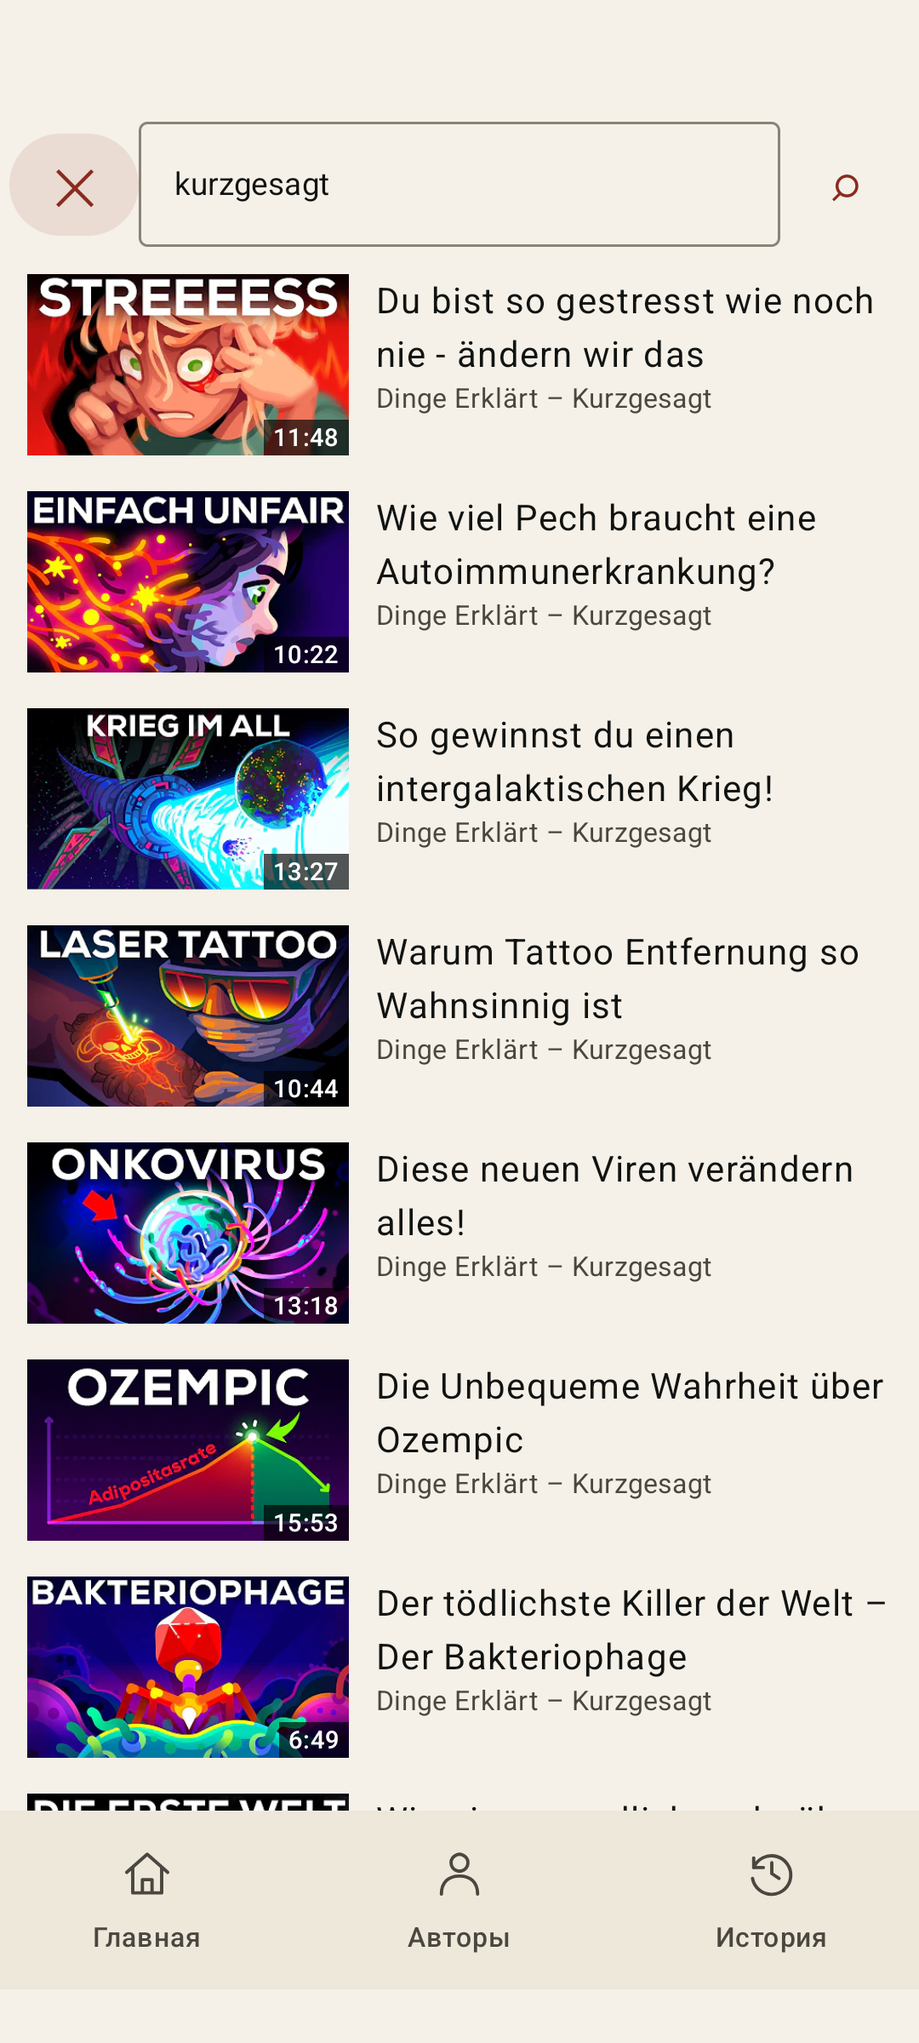
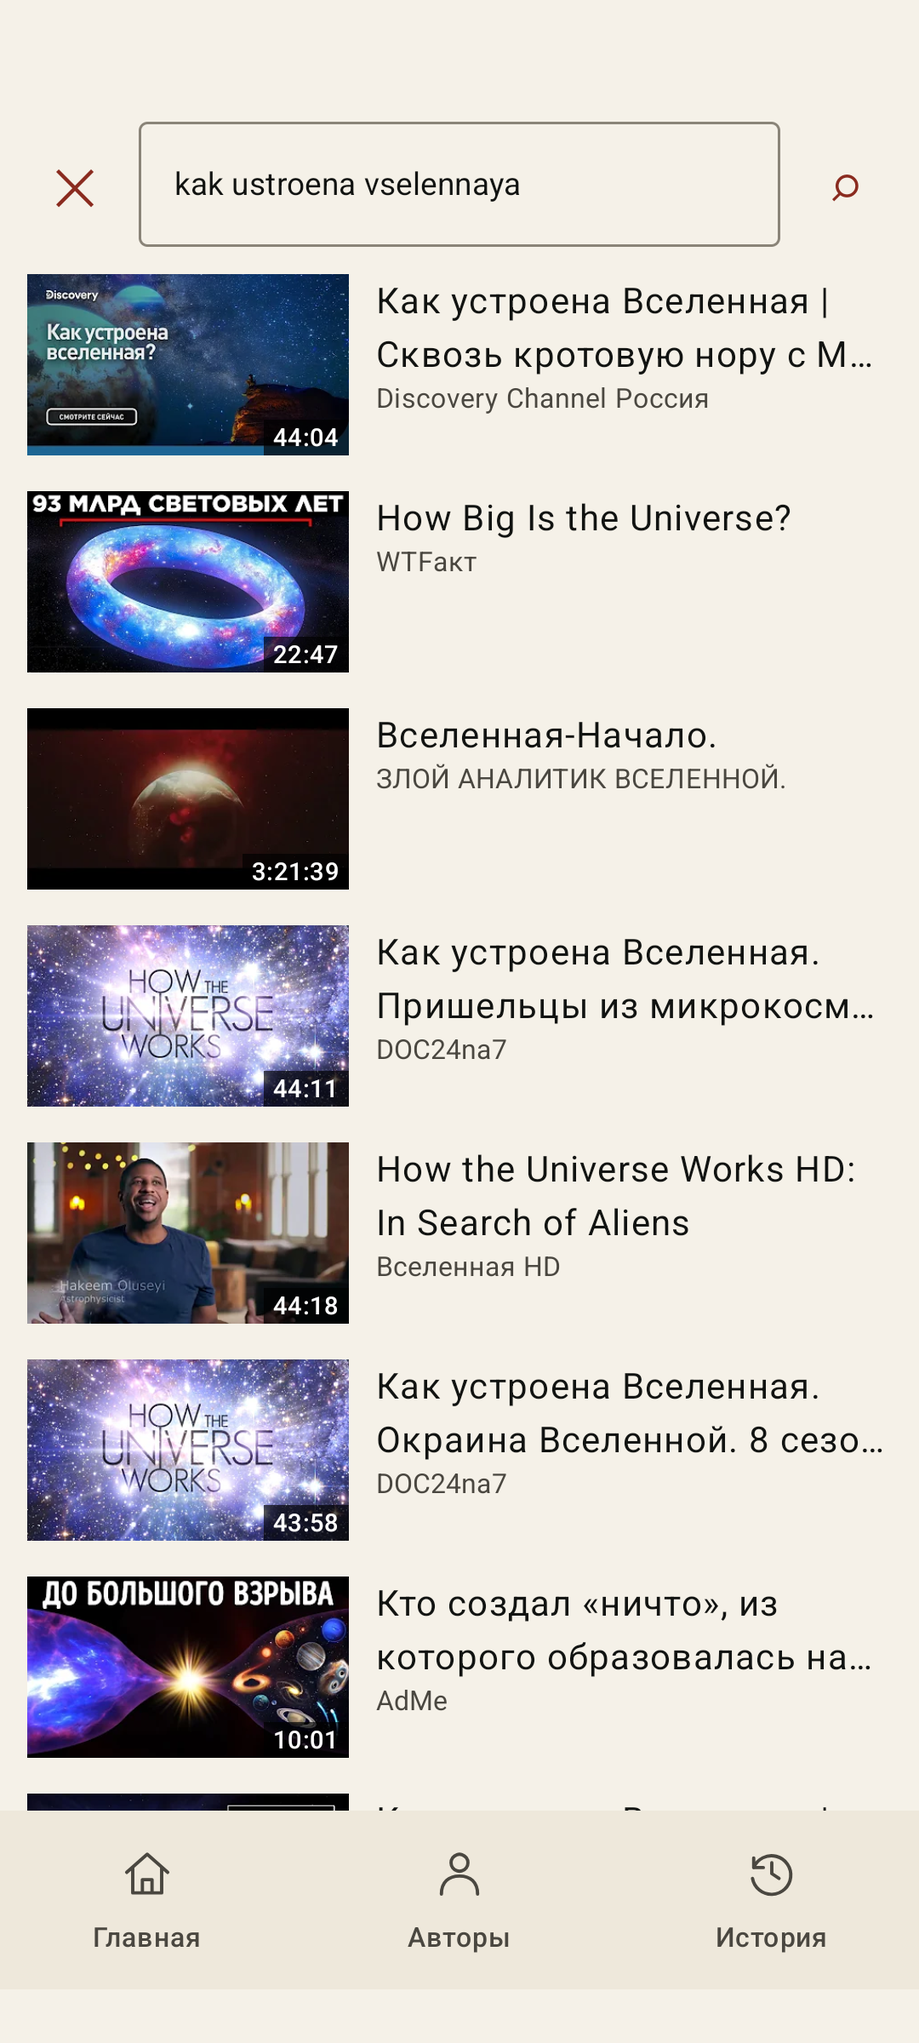
docs: the Russian version, written here
docs/russian.md holds its terms, address, grammar and typography. A
Russian README, and a listing that says родительский контроль, what a
parent searches for, where детский замок is a car door's. The screenshots
are retaken: two showed the old strings, and the player showed German
videos. A3 is closed with no Weblate, by the owner's word of 2026-11-04.

Changed region(s): [[0.0306, 0.125, 0.9472, 0.9062], [0.2139, 0.0625, 0.3667, 0.0938], [0.4278, 0.0625, 0.5194, 0.0938]]

diff --git a/README.ru.md b/README.ru.md
@@ -1,0 +1,85 @@
+# Shinkan 真関
+
+[English](README.md)
+
+Родительский контроль для Android, который управляет всем устройством:
+какие приложения есть у ребёнка, в какие часы, что устройству можно и куда оно
+может подключаться. Свободное программное обеспечение.
+
+Shinkan один раз назначают **владельцем устройства** на только что настроенном
+устройстве: одной командой `adb` или QR-кодом при первом включении. После этого:
+
+- на **закрытом устройстве** Shinkan — это весь главный экран ребёнка: две двери,
+  браузер и плеер YouTube, оба встроены в Shinkan и оба с фильтром, каждая в часы,
+  заданные родителем, и со своим пределом громкости; всё остальное приостановлено.
+  На **открытом устройстве** у ребёнка остаётся обычный главный экран, а родитель
+  закрывает выбранные приложения в выбранные часы;
+- установка и удаление приложений, добавление аккаунтов, смена времени, безопасный
+  режим, сброс до заводских настроек, настройки VPN и DNS и отладка по USB запрещены;
+- **трафик устройства идёт через собственный фильтр Shinkan** — постоянную VPN
+  с блокировкой, которую ребёнок не может выключить. Реклама и трекеры блокируются
+  по встроенному списку, азартные игры, порнография и соцсети — по выбору родителя.
+  Поделитесь любой ссылкой из любого приложения через *Заблокировать в Shinkan*:
+  сайт блокируется на всём устройстве вместе со всеми поддоменами и другими адресами
+  платформы, так что и приложение перестаёт работать;
+- **автора можно заблокировать**: поделитесь страницей канала YouTube или видео,
+  и встроенный плеер (на NewPipe Extractor) скроет этого автора везде, а официальное
+  приложение и сайт будут закрыты; плеер пропускает спонсорские вставки по данным
+  SponsorBlock;
+- браузер встроен в Shinkan, EasyList и EasyPrivacy применяются к каждому запросу;
+- распорядок дня: свободные часы, затем лимиты минут для каждой двери с отдыхом
+  между ними, например полчаса YouTube, полтора часа отдыха, два часа браузера;
+  во время отдыха воспроизведение останавливается, а ребёнок видит, как замыкается
+  кольцо, пока отдых не кончится или пока устройство не откроет родитель;
+- родитель открывает настройки PIN-кодом, который хранится только на устройстве,
+  и может снять защиту в любой момент.
+
+Shinkan говорит по-английски и по-русски и следует языку устройства. Значок на
+главном экране родитель выбирает там же: герб (ворота в кольце, по умолчанию),
+ворота, рисунок ворот или печать 関.
+
+Без аккаунта, без сервера, без приложения-компаньона. Фильтр пропускает трафик
+самого устройства и ничего от Shinkan: ни адресов, ни проверки обновлений, ни
+загрузки списков. Никакие данные о ребёнке не покидают устройство. Спецификация
+и план работ — на английском: [docs/SPEC.md](docs/SPEC.md),
+[docs/ROADMAP.md](docs/ROADMAP.md).
+
+## Как взять устройство под защиту
+
+На устройстве сразу после настройки, пока не добавлен ни один аккаунт, с включённой
+отладкой по USB:
+
+```
+adb shell dpm set-device-owner io.github.iverlein.shinkan/shinkan.app.admin.ShinkanAdmin
+```
+
+Затем откройте Shinkan, задайте PIN-код и выберите приложения. Защита снимается
+кнопкой за PIN-кодом; если PIN-код потерян, поможет только сброс до заводских
+настроек из режима восстановления.
+
+## Сборка
+
+```
+./gradlew :core:test            # движки и их тесты
+./gradlew :app:assembleDebug    # app/build/outputs/apk/debug/
+```
+
+JDK 21, Android SDK 37. Отладочная сборка ставится рядом с релизной как
+«Shinkan beta». Тестируйте на эмуляторе без Google Play (команда `dpm` не работает
+на устройстве с аккаунтами); `tools/emulator/emulator.py` создаёт эмулятор, назначает
+владельца, управляет им и восстанавливает его. Русский текст ведётся по правилам
+[docs/russian.md](docs/russian.md).
+
+## Лицензия
+
+GPL-3.0-or-later. См. [LICENSE](LICENSE).
+
+Данные о фрагментах видео плеер получает от [SponsorBlock](https://sponsor.ajay.app)
+(CC BY-NC-SA 4.0), запрашивает их по префиксу хеша и не хранит.
+
+Встроенный список блокировок в `app/src/main/assets/blocklist/` сохраняет лицензии
+источников: списки DNS от Hagezi (GPL-3.0), hosts от StevenBlack (MIT) и исходные
+источники его расширений (MIT, CC BY 4.0), каждый с лицензией в `VERSIONS.md` там же,
+и собственный список Shinkan с российскими подконтрольными государству СМИ в категории
+фейковых новостей (`tools/blocklist/state-media.txt`). Перед релизом его обновляет
+`tools/blocklist/refresh.py`.

diff --git a/docs/russian.md b/docs/russian.md
@@ -1,0 +1,80 @@
+# The Russian version
+
+Shinkan's Russian is written in this repository, by the rules below, not through
+a translation platform. `python3 tools/check_strings.py` checks what a machine
+can; a new string in `res/values/strings.xml` gets its Russian in the same commit.
+
+## Terms
+
+One English term, one Russian term, in the app, the listing and the README alike.
+Where Android has its own Russian word, that word is used, so that a parent finds
+in Shinkan what Settings calls the same thing.
+
+| English | Russian | Not |
+| --- | --- | --- |
+| child lock, in the listing and README | родительский контроль | детский замок, a car door's |
+| the hold | защита | |
+| Shinkan holds the device | Shinkan управляет устройством | держит |
+| release the device | снять защиту с устройства | освободить |
+| device owner | владелец устройства | |
+| the parent door | раздел «Родителям» | |
+| door | дверь | |
+| the closed device, the open device | закрытое устройство, открытое устройство | |
+| form (closed or open) | режим | |
+| launcher, home | главный экран | лаунчер, домашний экран |
+| PIN | PIN-код | PIN alone |
+| day plan | распорядок дня | |
+| stage, span, budget, rest | этап, промежуток, лимит, отдых | |
+| window (of an app) | окно | |
+| ceiling (of volume) | предел | |
+| suspended | приостановлено | |
+| creator | автор | |
+| player, segment | плеер, фрагмент | |
+| private DNS | персональный DNS-сервер | частный DNS |
+| USB debugging | отладка по USB | |
+| hash | хеш | хэш |
+
+## Address
+
+The parent is *вы*, in lower case. The child's pages avoid addressing anyone:
+«Здесь появятся просмотренные видео», not «видео, которые вы смотрите». A *вы*
+to a child reads as cold, a *ты* would be wrong for the parent who reads the same
+page.
+
+## Grammar
+
+- **Buttons** are infinitives: *Сохранить*, *Применить*. *Отмена* and *Готово* stay
+  as Android has them.
+- **Counts** are `plurals` with all of `one`, `few`, `many` and `other`, or a form
+  that needs no agreement: *Сайтов: 5*, *Ещё 3 мин*, never *Осталось 1 мин*. `one`
+  in Russian also covers 21 and 31, and 11 is `many`.
+- **Words beside a number shown apart** are plurals too: the rest page's
+  *минута отдыха* stands under its number, so its `one` has no `%d`.
+- **An app's or a creator's name** takes no agreement: *приложение %1$s*,
+  *автора «%1$s»*.
+- **A weekday** comes from the locale in the nominative: *Откроется: вт, 06:00*, as
+  *в вт* cannot be said.
+
+## Typography
+
+- Quotes are « »; a dash is — with a no-break space before it; the ellipsis is one
+  character, ….
+- A no-break space, written ` `, between a number and its unit (*5 мин*,
+  *60 %*, *10 с*) and after a one-letter or short preposition or conjunction.
+- *ё* is written.
+- Units have no dot: *мин*, *с*. Hours are 24-hour.
+- *ОК* is Cyrillic, as in Android.
+
+## What stays English
+
+The words of the policy text and the block list text (SPEC §4.4, §6.4): `mode`,
+`plan`, `site`, and the rest are a format. A parser's complaint about them is
+Russian with those words kept: «после mode нужно closed или open». Brands stay
+spelled as their owners spell them.
+
+## Checks by eye
+
+A long word breaks a narrow row where no check sees it, and only a screen shows it.
+After a change to a row of buttons, chips or labels, look at the page in Russian on
+the emulator at phone width: `adb root`, then
+`adb shell 'setprop persist.sys.locale ru-RU; setprop ctl.restart zygote'`.

diff --git a/AGENTS.md b/AGENTS.md
@@ -27,11 +27,11 @@ by hand before working there:
 
 | Path | What |
 | --- | --- |
-| `core/` | Pure Kotlin: `Policy` and `Window` (what is usable when), `Restriction` (the `UserManager` keys), `PolicyText` (the stored form), `Pin`, `Volume`; `net/`: `Blocklist`, `BuiltinList` and `Category` (the built-in list), `Host`, `Families`, `Link` (what a shared text means), `BlocklistText`, `Segments` (the lookup of §7.5), `DnsQuestion` and `UdpDatagram`/`Checksum` (the filter's packets), `TcpSegment` and `TcpFlow` (the relay's connections), `SeenHosts` (the names of addresses), `ClientHello` (the name TLS shows). Tests in `core/src/test/`. No Android. |
+| `core/` | Pure Kotlin: `Policy` and `Window` (what is usable when), `Restriction` (the `UserManager` keys), `PolicyText` (the stored form), `TextProblem` (what is wrong with a line, as a key), `Pin`, `Volume`; `net/`: `Blocklist`, `BuiltinList` and `Category` (the built-in list), `Host`, `Families`, `Link` (what a shared text means), `BlocklistText`, `Segments` (the lookup of §7.5), `DnsQuestion` and `UdpDatagram`/`Checksum` (the filter's packets), `TcpSegment` and `TcpFlow` (the relay's connections), `SeenHosts` (the names of addresses), `ClientHello` (the name TLS shows). Tests in `core/src/test/`. No Android. |
 | `app/` | Compose UI, package `shinkan.app`, application id `io.github.iverlein.shinkan`. `admin/`: `ShinkanAdmin` the device admin receiver, `DeviceHold` the policy applied through `DevicePolicyManager`, `PolicyStore`, `ReapplyReceiver`. `filter/`: `FilterService` the VPN, `Relay` its TCP, `BlocklistStore`, `ShareActivity` the share target. `ui/`: the pages of SPEC §8. `LauncherIcon`: the alias switch for the icon of SPEC §8.5, drawn in `res/drawable/icon_*.xml`. Interface text in `res/values/strings.xml`. |
 | `fastlane/metadata/android/` | F-Droid store listing per language. |
-| `docs/` | `SPEC.md`, `ROADMAP.md`; `fdroid/` the recipe once submitted. |
-| `tools/` | Python only. `emulator/`: `emulator.py`, the emulator tool, `stand.py`, the stand of the QR flow, and their README with the traps and the checks of SPEC §10. `blocklist/refresh.py`: the built-in block list fetched into `app/src/main/assets/blocklist/` before a release. `provision_qr.py`: the QR code of SPEC §3.2, with `test_provision_qr.py`. |
+| `docs/` | `SPEC.md`, `ROADMAP.md`, `russian.md` the terms and typography of the Russian; `fdroid/` the recipe once submitted. |
+| `tools/` | Python only. `emulator/`: `emulator.py`, the emulator tool, `stand.py`, the stand of the QR flow, and their README with the traps and the checks of SPEC §10. `blocklist/refresh.py`: the built-in block list fetched into `app/src/main/assets/blocklist/` before a release. `provision_qr.py`: the QR code of SPEC §3.2, with `test_provision_qr.py`. `check_strings.py`: the Russian against `docs/russian.md`, with `test_check_strings.py`. |
 
 ## Commands
 
@@ -40,6 +40,8 @@ by hand before working there:
 ./gradlew :app:assembleDebug              # APK in app/build/outputs/apk/debug/
 adb -s <serial> install -r app/build/outputs/apk/debug/app-debug.apk
 aapt2 dump permissions app/build/outputs/apk/debug/app-debug.apk   # the seven of SPEC §5.1, nothing else
+python3 tools/check_strings.py                   # the Russian strings against the English and docs/russian.md
+python3 tools/test_check_strings.py              # that check against strings wrong on purpose
 python3 tools/blocklist/refresh.py               # the built-in block list, before a release (--check: are the assets whole)
 python3 tools/provision_qr.py --url … --apk … out.png   # the QR code that provisions a device just reset
 python3 tools/test_provision_qr.py               # its codes read back by zbarimg

diff --git a/docs/SPEC.md b/docs/SPEC.md
@@ -778,9 +778,13 @@ and cannot be changed at run time (§9.4).
 ### 8.6 Look
 
 Every page speaks English and Russian (`res/values-ru/`), following the
-device's language; the F-Droid listing has both (`fastlane/.../ru-RU`).
+device's language, or the app's own language where the system offers one:
+the build writes the two into `localeConfig` and keeps other languages of its
+libraries out. The F-Droid listing has both (`fastlane/.../ru-RU`), and the
+README (`README.ru.md`). The Russian is written here, by `docs/russian.md`.
 The words of the policy text and of the block list text (§4.4, §6.4) stay
-English in both: they are a format, not prose.
+English in both: they are a format, not prose. What a parser says of a line is
+a `TextProblem` in `core/`, worded by the app in either language.
 
 Every page works in portrait and in landscape from its first version; no
 page locks an orientation, and the player fills the screen in landscape.

diff --git a/docs/ROADMAP.md b/docs/ROADMAP.md
@@ -75,7 +75,7 @@ order. Numbers are identifiers and do not change when the order does.
 | 12 | IPv6 in the tunnel | done 2026-11-04 |
 | A1 | Lock task features tuned on real devices: notifications, power dialog, keyguard [§4.1] | |
 | A2 | The icon drawn: the crest by default; the gate, the drawn gate and the seal 関 chosen on the parent door [§8.5] | done 2026-11-01 |
-| A3 | Translations: Russian first, Weblate as for Zanshin; Russian is in 1.0 | Russian done 2026-11-02 (seen on the emulator: PIN, home, parent door, plans); Weblate later |
+| A3 | Translations: Russian, written here by `docs/russian.md` | done 2026-11-04: the whole interface, the parser's errors, the listing and the README, checked by `tools/check_strings.py` and on the emulator. No Weblate (owner, 2026-11-04) |
 
 ## The blocks
 

diff --git a/.agents/rules/app.md b/.agents/rules/app.md
@@ -43,4 +43,7 @@ paths:
   The filter is checked by resolving a blocked and an unblocked name from
   an allowed terminal app on the emulator, and by `dumpsys connectivity`
   showing the VPN with lockdown.
-- **Strings in `res/values/strings.xml`**, never literals in Compose.
+- **Strings in `res/values/strings.xml`**, never literals in Compose, and their
+  Russian in `res/values-ru/` in the same commit, by `docs/russian.md`;
+  `python3 tools/check_strings.py` passes. `core/` holds no sentence a parent
+  reads: a problem is a key, as `TextProblem`, worded in the app.

diff --git a/README.md b/README.md
@@ -1,5 +1,7 @@
 # Shinkan 真関
 
+[Русский](README.ru.md)
+
 A child lock for Android that holds the whole device: which apps exist for
 the child, at which hours, what the device may do, and what it may reach.
 Free software, on F-Droid when 1.0 is out.
